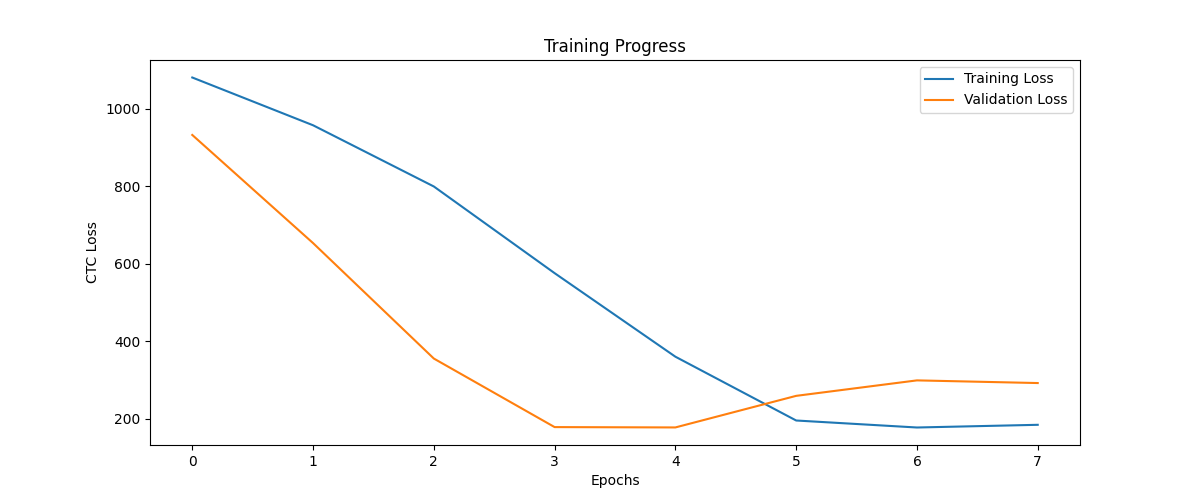
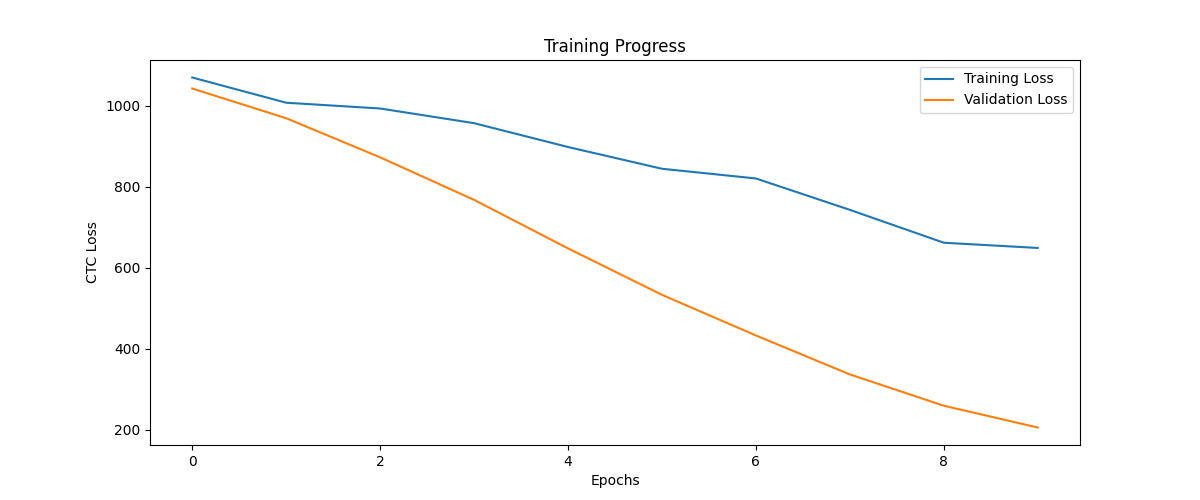
Adding Wer and Cer metrices

diff --git a/training/train_streaming.py b/training/train_streaming.py
@@ -14,7 +14,7 @@ tf.keras.mixed_precision.set_global_policy('float32')
 SAMPLE_RATE = 16000
 EPOCHS = 10
 BATCH_SIZE = 8
-MAX_TRAIN_SAMPLES = 32  # Start small for testing
+MAX_TRAIN_SAMPLES = 2000  # Start small for testing
 
 # wer and cer metrics
 class STTMetrics(tf.keras.callbacks.Callback):
@@ -25,22 +25,51 @@ class STTMetrics(tf.keras.callbacks.Callback):
         self.samples = samples
 
     def on_epoch_end(self, epoch, logs=None):
-        # Greedy decoder
-        pred_logits = self.model.predict(self.val_data.take(1))[0]
-        pred_ids = tf.keras.backend.ctc_decode(
-            pred_logits, 
-            input_length=[pred_logits.shape[1]]*pred_logits.shape[0],
-            greedy=True
-        )[0][0]
-        
-        # Convert to text
-        texts_pred = [self.tokenizer.decode(ids) for ids in pred_ids.numpy()]
-        texts_true = [self.tokenizer.decode(batch[1]) for batch in self.val_data.take(1)]
-        
-        # Calculate WER/CER
-        logs["wer"] = wer(texts_true, texts_pred)
-        logs["cer"] = cer(texts_true, texts_pred)
-        print(f"\nValidation WER: {logs['wer']:.2%}, CER: {logs['cer']:.2%}")
+        print("\n=== CTC DEBUG START ===")
+        try:
+            # Get validation batch
+            val_batch = next(iter(self.val_data.take(1)))
+            ((audio_inputs, true_labels), _) = val_batch
+            
+            # Get base model
+            base_model = next(layer for layer in self.model.layers 
+                            if isinstance(layer, tf.keras.Model))
+            
+            # Predict
+            pred_logits = base_model.predict(audio_inputs, verbose=0)
+            
+            # CTC decode
+            decoded, _ = tf.keras.backend.ctc_decode(
+                pred_logits,
+                input_length=[pred_logits.shape[1]] * pred_logits.shape[0],
+                greedy=True
+            )
+            pred_ids = decoded[0]
+
+            # Convert to numpy arrays properly
+            texts_pred = [
+                self.tokenizer.decode(tf.constant(ids))  # Convert numpy array to tensor
+                for ids in pred_ids.numpy()
+            ]
+            texts_true = [
+                self.tokenizer.decode(label) 
+                for label in true_labels
+            ]
+            
+            # Calculate metrics
+            logs["wer"] = wer(texts_true, texts_pred)
+            logs["cer"] = cer(texts_true, texts_pred)
+            
+            print(f"| Pred shape: {pred_ids.shape}")
+            print(f"| Sample pred: {texts_pred[0]}")
+            print(f"| Sample true: {texts_true[0]}")
+            print(f"| WER: {logs['wer']:.2%} | CER: {logs['cer']:.2%}")
+
+        except Exception as e:
+            print(f"| ERROR: {str(e)}")
+            raise
+            
+        print("=== CTC DEBUG END ===\n")
 
 
 def setup_directories():
@@ -109,7 +138,7 @@ def train_model():
         min_lr=1e-6,
         verbose=1
         ),
-        # STTMetrics(test_dataset, tokenizer)
+        STTMetrics(test_dataset, tokenizer)
     ]
 
     # Calculate steps per epoch

diff --git a/models/stt_model/architecture.py b/models/stt_model/architecture.py
@@ -29,19 +29,12 @@ def build_stt_model(
 
     # CNN Block with strided convolutions
     x = layers.Conv2D(32, (3,3), strides=(1,2), activation="relu", padding="same")(x)
-    x = layers.BatchNormalization()(x)
+    # x = layers.BatchNormalization()(x)
     x = layers.MaxPooling2D( (1,2) ) (x) # Downsample that reduce spatial dimensions of input 
 
     x = layers.Conv2D(64, (3,3), strides=(1,2), activation="relu", padding="same")(x)
-    x = layers.BatchNormalization()(x)
+    # x = layers.BatchNormalization()(x)
     x = layers.MaxPooling2D( (1,2) ) (x) # Downsample that reduce spatial dimensions of input 
-
-
-    # x = layers.Conv2D(32, (3,3), activation = "relu", padding = "same") (x)
-    # x = layers.MaxPooling2D( (1,2) ) (x) # Downsample that reduce spatial dimensions of input 
-
-    # x = layers.Conv2D(32, (3,3), activation = "relu", padding = "same") (x)
-    # x = layers.MaxPooling2D( (1,2) ) (x) 
  
     # Now reshaping for RNN ( batch, time, feature ) by just feature * channels
     x = layers.Reshape( (-1, x.shape[2] * x.shape[3] ) ) (x)
@@ -50,9 +43,9 @@ def build_stt_model(
 
     # BiLSTM Layers with regularization to avoid overfitting. Bidirection to capture information from both sides and LSTM because audio is sequential
     x = layers.Bidirectional(layers.LSTM(256, return_sequences=True, 
-                                      dropout=0.3, recurrent_dropout=0.2))(x)
+                                      dropout=0.5, recurrent_dropout=0.3))(x)
     x = layers.Bidirectional(layers.LSTM(256, return_sequences=True,
-                                      dropout=0.3, recurrent_dropout=0.2))(x)
+                                      dropout=0.5, recurrent_dropout=0.3))(x)
 
     # Time-distributed dense : adds non-linear feature transformation before CTC
     x = layers.TimeDistributed(layers.Dense(512, activation="relu"))(x)
@@ -84,7 +77,6 @@ class CTCLossLayer(layers.Layer):
             axis=1
         )
         
-        # Critical Fix 3: Use modern CTC loss with blank index
         loss = tf.nn.ctc_loss(
             labels=y_true,
             logits=y_pred,
@@ -93,7 +85,9 @@ class CTCLossLayer(layers.Layer):
             logits_time_major=False,
             blank_index=self.blank_index
         )
-        self.add_loss(tf.reduce_mean(loss))
+
+        # Add small epsilon to avoid log(0)
+        self.add_loss(tf.reduce_mean(loss) + 1e-7)
         return y_pred
 
     def get_config(self):
@@ -121,8 +115,12 @@ def create_STT_with_CTC(input_dim=13, vocab_size=37) -> Model:
     model = Model(inputs=[mfcc_input, label_input], outputs=outputs)
 
     optimizer = tf.keras.optimizers.Adam(
-    learning_rate=1e-4,
-    global_clipnorm=1.0,  # Add this to prevent exploding gradients
+        learning_rate=tf.keras.optimizers.schedules.ExponentialDecay(
+            initial_learning_rate=1e-4,
+            decay_steps=2000,
+            decay_rate=0.95
+        ),
+        clipnorm=1.0
     )
 
     model.compile(optimizer=optimizer)
